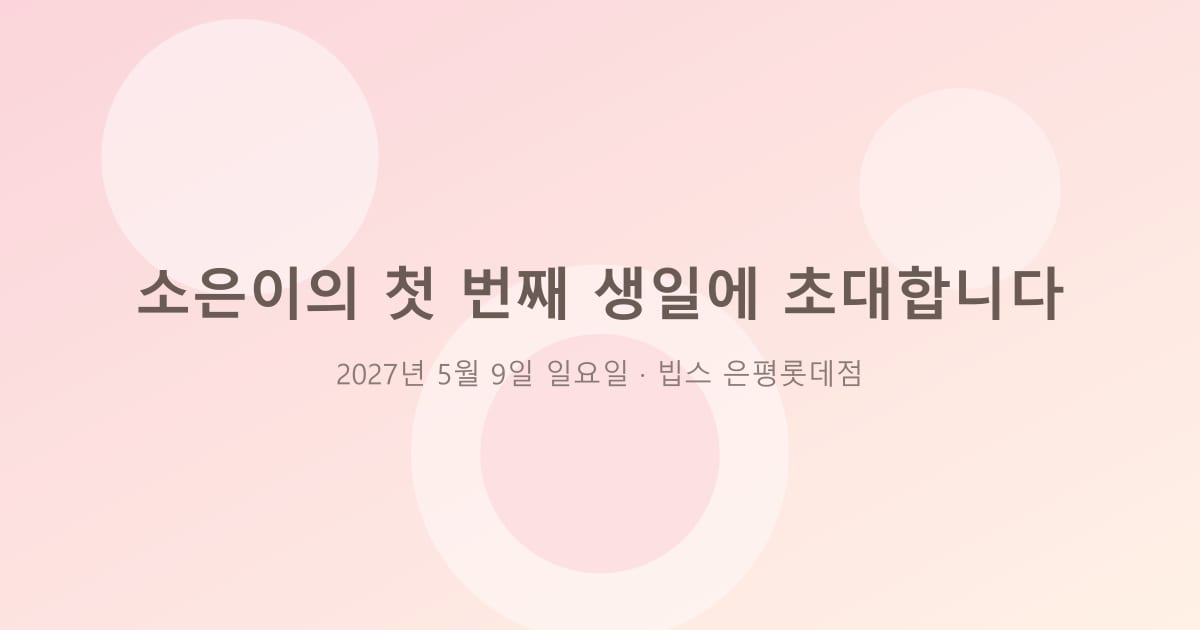
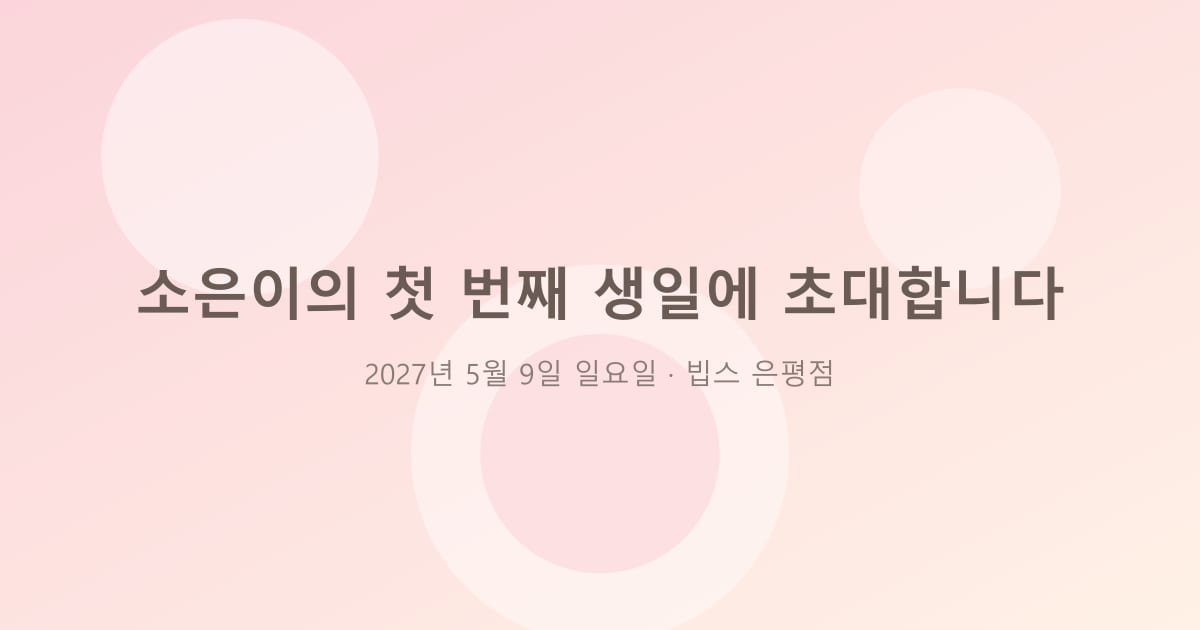
Centralize venue/date config and update event details
Restructure invitation.ts into editable EVENT/VENUE/BABY blocks with all
labels (date, time, timeline milestones, share text, meta) derived from
them so a venue or date change is a single edit. Set birth date to
2026-05-11 and venue to 빕스 은평점 (롯데몰 은평점 3층, 0507-1434-5338).

Claude-Session: https://claude.ai/code/session_01HjeSDQmS4RLg8wxRNSKM7X

Changed region(s): [[0.2775, 0.573, 0.74, 0.6333]]

diff --git a/src/config/invitation.ts b/src/config/invitation.ts
@@ -1,91 +1,182 @@
+// =====================================================================
 // Single source of truth for all invitation content.
-// Private values (phones, accounts, RSVP URL) come from environment variables — see astro.config.mjs.
+//
+// HOW TO CHANGE THE VENUE OR DATE
+//   Edit only the `EVENT` and `VENUE` blocks below. Every label on the
+//   page (cover, calendar, map, directions, KakaoTalk share text, meta
+//   description) is derived from them — nothing else needs touching.
+//   The placeholder og.jpg text is generated separately: run
+//   `npm run placeholders` after changing these, until a real image
+//   replaces public/og.jpg.
+//
+// Private values (phones, accounts, RSVP URL) come from environment
+// variables — see astro.config.mjs and docs/SETUP.md.
+// =====================================================================
 
-export type DoljabiItem = {
-  id: string;
-  label: string;
-  meaning: string;
-  emoji: string;
+// ---------------------------------------------------------------------
+// EVENT — when
+// ---------------------------------------------------------------------
+const EVENT = {
+  // ISO 8601 with the KST offset. TODO: confirm the start time with the venue.
+  startAt: '2027-05-09T12:00:00+09:00',
+  // Shown after the date, e.g. "낮 12시" / "오후 1시 30분". Derived from startAt when empty.
+  timeLabel: '낮 12시',
 };
 
-export type TimelineEntry = {
-  id: 'birth' | 'hundred' | 'first';
-  label: string;
-  date: string;
-  caption: string;
-};
-
-export const invitation = {
-  baby: {
-    name: '소은',
-    fullName: '윤소은',
-    // TODO: confirm the actual birth date/time.
-    birthDate: '2026-05-09',
-    birthTime: '',
-  },
-  parents: {
-    dad: '윤건우',
-    mom: '박서희',
-  },
-  event: {
-    // ISO 8601 with KST offset. TODO: confirm the start time.
-    startAt: '2027-05-09T12:00:00+09:00',
-    dateLabel: '2027년 5월 9일 일요일',
-    timeLabel: '낮 12시',
-    title: '소은이의 첫 번째 생일',
-    subtitle: 'Soeun’s First Birthday',
-  },
-  venue: {
-    name: '빕스 은평롯데점',
-    floor: '롯데몰 은평 3층',
-    address: '서울특별시 은평구 통일로 1050',
-    tel: '02-6975-5338',
-    // Search keyword used for the map marker and navigation links (more robust than hardcoded coordinates).
-    keyword: '빕스 은평롯데점',
-    // Fallback center when keyword search fails (approximate, near 구파발역/롯데몰 은평).
-    lat: 37.6373,
-    lng: 126.9188,
-  },
+// ---------------------------------------------------------------------
+// VENUE — where (not booked yet; may change)
+// ---------------------------------------------------------------------
+const VENUE = {
+  name: '빕스 은평점',
+  floor: '롯데몰 은평점 3층',
+  address: '서울 은평구 통일로 1050',
+  tel: '0507-1434-5338',
+  // Keyword used for the Kakao map marker and the Kakao/Naver directions links.
+  // Use the exact place name as it appears on map.kakao.com so the search hits the right spot.
+  mapKeyword: '빕스 은평점',
+  // Fallback map center when the keyword search fails (approximate is fine).
+  lat: 37.6373,
+  lng: 126.9188,
+  // Directions shown under the map. Rewrite freely when the venue changes.
   transport: [
     { label: '지하철', detail: '3호선 구파발역 4번 출구에서 롯데몰 은평 방향으로 도보 약 3분' },
     { label: '버스', detail: '구파발역 · 롯데몰 은평 정류장 하차 (간선 701·704·720, 지선 7211·7723 등)' },
     { label: '자가용', detail: '내비게이션에 "롯데몰 은평" 검색 · 몰 주차장 이용 (매장에서 주차 등록 가능)' },
   ],
-  greeting: [
-    '처음 품에 안았던 날이 어제 같은데\n어느덧 소은이가 첫 생일을 맞이합니다.',
-    '지난 일 년, 사랑으로 지켜봐 주신 분들께\n감사한 마음을 담아 작은 자리를 마련했습니다.',
-    '소은이의 첫걸음을 함께 축복해 주시면\n더없이 기쁘겠습니다.',
-  ],
+};
+
+// ---------------------------------------------------------------------
+// FAMILY — who
+// ---------------------------------------------------------------------
+const BABY = {
+  name: '소은',
+  fullName: '윤소은',
+  birthDate: '2026-05-11',
+  // Optional, e.g. "오전 10시 20분". Shown next to the birth date when set.
+  birthTime: '',
+};
+
+const PARENTS = {
+  dad: '윤건우',
+  mom: '박서희',
+};
+
+// ---------------------------------------------------------------------
+// COPY — texts (edit freely)
+// ---------------------------------------------------------------------
+const GREETING = [
+  '처음 품에 안았던 날이 어제 같은데\n어느덧 소은이가 첫 생일을 맞이합니다.',
+  '지난 일 년, 사랑으로 지켜봐 주신 분들께\n감사한 마음을 담아 작은 자리를 마련했습니다.',
+  '소은이의 첫걸음을 함께 축복해 주시면\n더없이 기쁘겠습니다.',
+];
+
+const GIFT_NOTE = '참석만으로도 큰 축하가 됩니다.\n마음을 전하고 싶으신 분들을 위해 계좌번호를 남겨 둡니다.';
+
+const DOLJABI_ITEMS = [
+  { id: 'thread', label: '실', meaning: '무병장수', emoji: '🧵' },
+  { id: 'money', label: '돈', meaning: '부와 풍요', emoji: '💰' },
+  { id: 'pencil', label: '연필', meaning: '학문과 지혜', emoji: '✏' },
+  { id: 'stethoscope', label: '청진기', meaning: '의술과 배려', emoji: '🩺' },
+  { id: 'mic', label: '마이크', meaning: '끼와 재능', emoji: '🎤' },
+  { id: 'gavel', label: '판사봉', meaning: '정의와 명예', emoji: '⚖' },
+  { id: 'ball', label: '공', meaning: '건강과 활력', emoji: '⚽' },
+] as const;
+// NOTE: the item ids above are also whitelisted in firestore.rules — keep both lists in sync.
+
+// =====================================================================
+// Derived values — no need to edit below this line.
+// =====================================================================
+
+export type DoljabiItem = (typeof DOLJABI_ITEMS)[number];
+export type TimelineEntry = { id: 'birth' | 'hundred' | 'first'; label: string; date: string; caption: string };
+
+const KST_OFFSET_MS = 9 * 60 * 60 * 1000;
+const WEEKDAY_LABELS = ['일요일', '월요일', '화요일', '수요일', '목요일', '금요일', '토요일'];
+const HUNDRED_DAYS_OFFSET = 99; // the 100th day counting the birth day as day 1
+
+function toKst(date: Date): Date {
+  return new Date(date.getTime() + KST_OFFSET_MS);
+}
+
+function parseIsoDate(isoDate: string): Date {
+  return new Date(`${isoDate}T00:00:00+09:00`);
+}
+
+function addDays(date: Date, days: number): Date {
+  return new Date(date.getTime() + days * 24 * 60 * 60 * 1000);
+}
+
+function addYears(date: Date, years: number): Date {
+  const kst = toKst(date);
+  return new Date(Date.UTC(kst.getUTCFullYear() + years, kst.getUTCMonth(), kst.getUTCDate()) - KST_OFFSET_MS);
+}
+
+/** "2027년 5월 9일 일요일" */
+export function formatKoreanDate(date: Date): string {
+  const kst = toKst(date);
+  return `${kst.getUTCFullYear()}년 ${kst.getUTCMonth() + 1}월 ${kst.getUTCDate()}일 ${WEEKDAY_LABELS[kst.getUTCDay()]}`;
+}
+
+/** "2027.05.09" */
+export function formatDottedDate(date: Date): string {
+  const kst = toKst(date);
+  return `${kst.getUTCFullYear()}.${String(kst.getUTCMonth() + 1).padStart(2, '0')}.${String(kst.getUTCDate()).padStart(2, '0')}`;
+}
+
+/** "낮 12시", "오후 1시 30분" */
+function formatKoreanTime(date: Date): string {
+  const kst = toKst(date);
+  const hours = kst.getUTCHours();
+  const minutes = kst.getUTCMinutes();
+  const minuteLabel = minutes === 0 ? '' : ` ${minutes}분`;
+  if (hours === 12) return `낮 12시${minuteLabel}`;
+  if (hours < 12) return `오전 ${hours}시${minuteLabel}`;
+  return `오후 ${hours - 12}시${minuteLabel}`;
+}
+
+const eventStart = new Date(EVENT.startAt);
+const birth = parseIsoDate(BABY.birthDate);
+const dateLabel = formatKoreanDate(eventStart);
+const timeLabel = EVENT.timeLabel || formatKoreanTime(eventStart);
+const whenWhereLabel = `${dateLabel} ${timeLabel} · ${VENUE.name}`;
+
+export const invitation = {
+  baby: BABY,
+  parents: PARENTS,
+  event: {
+    startAt: EVENT.startAt,
+    dateLabel,
+    timeLabel,
+    title: `${BABY.name}이의 첫 번째 생일`,
+    subtitle: 'Soeun’s First Birthday',
+  },
+  venue: VENUE,
+  greeting: GREETING,
   timeline: [
-    { id: 'birth', label: '탄생', date: '2026.05.09', caption: '세상에 온 날' },
-    { id: 'hundred', label: '백일', date: '2026.08.16', caption: '백 일의 기적' },
-    { id: 'first', label: '첫돌', date: '2027.05.09', caption: '첫 번째 생일' },
+    { id: 'birth', label: '탄생', date: formatDottedDate(birth), caption: '세상에 온 날' },
+    {
+      id: 'hundred',
+      label: '백일',
+      date: formatDottedDate(addDays(birth, HUNDRED_DAYS_OFFSET)),
+      caption: '백 일의 기적',
+    },
+    { id: 'first', label: '첫돌', date: formatDottedDate(addYears(birth, 1)), caption: '첫 번째 생일' },
   ] satisfies TimelineEntry[],
   doljabi: {
-    title: '소은이는 무엇을 잡을까요?',
+    title: `${BABY.name}이는 무엇을 잡을까요?`,
     description: '돌잡이 결과를 미리 맞혀 보세요! 투표는 한 번만 가능합니다.',
-    items: [
-      { id: 'thread', label: '실', meaning: '무병장수', emoji: '🧵' },
-      { id: 'money', label: '돈', meaning: '부와 풍요', emoji: '💰' },
-      { id: 'pencil', label: '연필', meaning: '학문과 지혜', emoji: '✏' },
-      { id: 'stethoscope', label: '청진기', meaning: '의술과 배려', emoji: '🩺' },
-      { id: 'mic', label: '마이크', meaning: '끼와 재능', emoji: '🎤' },
-      { id: 'gavel', label: '판사봉', meaning: '정의와 명예', emoji: '⚖' },
-      { id: 'ball', label: '공', meaning: '건강과 활력', emoji: '⚽' },
-    ] satisfies DoljabiItem[],
+    items: DOLJABI_ITEMS,
   },
-  gift: {
-    note: '참석만으로도 큰 축하가 됩니다.\n마음을 전하고 싶으신 분들을 위해 계좌번호를 남겨 둡니다.',
-  },
+  gift: { note: GIFT_NOTE },
   share: {
-    title: '소은이의 첫 번째 생일에 초대합니다',
-    description: '2027년 5월 9일 일요일 낮 12시 · 빕스 은평롯데점',
+    title: `${BABY.name}이의 첫 번째 생일에 초대합니다`,
+    description: whenWhereLabel,
     ogImage: 'og.jpg',
     kakaoButtonLabel: '초대장 보기',
   },
   meta: {
-    title: '소은이의 첫 번째 생일',
-    description: '2027년 5월 9일 일요일 낮 12시, 빕스 은평롯데점에서 소은이의 첫돌을 함께 축하해 주세요.',
+    title: `${BABY.name}이의 첫 번째 생일`,
+    description: `${whenWhereLabel}에서 ${BABY.name}이의 첫돌을 함께 축하해 주세요.`,
     lang: 'ko',
   },
 } as const;

diff --git a/docs/SETUP.md b/docs/SETUP.md
@@ -63,6 +63,13 @@
 WebP 변환과 리사이즈는 빌드가 자동으로 처리합니다. 원본이 5MB를 넘으면 미리 줄여 두세요.
 날짜·문구·출생일·행사 시간은 `src/config/invitation.ts`에서 수정합니다.
 
+## 5-1. 장소·날짜 변경 (예약 확정 후)
+
+`src/config/invitation.ts` 맨 위의 **`EVENT`**(일시)와 **`VENUE`**(장소명, 층, 주소, 전화, 지도 검색어, 교통 안내) 블록만 고치면
+커버·달력·지도·길찾기·카카오톡 공유 문구·메타 설명이 모두 따라 바뀝니다.
+`mapKeyword`는 카카오맵에서 검색했을 때 정확히 그 매장이 나오는 이름으로 적어 주세요.
+임시 `public/og.jpg`의 문구는 `scripts/make-placeholders.mjs`의 `OG_SUBTITLE`을 고치고 `npm run placeholders`로 다시 만듭니다 (실제 이미지로 바꾼 뒤에는 불필요).
+
 ## 6. GitHub 시크릿
 
 저장소 → Settings → Secrets and variables → Actions → **New repository secret**
